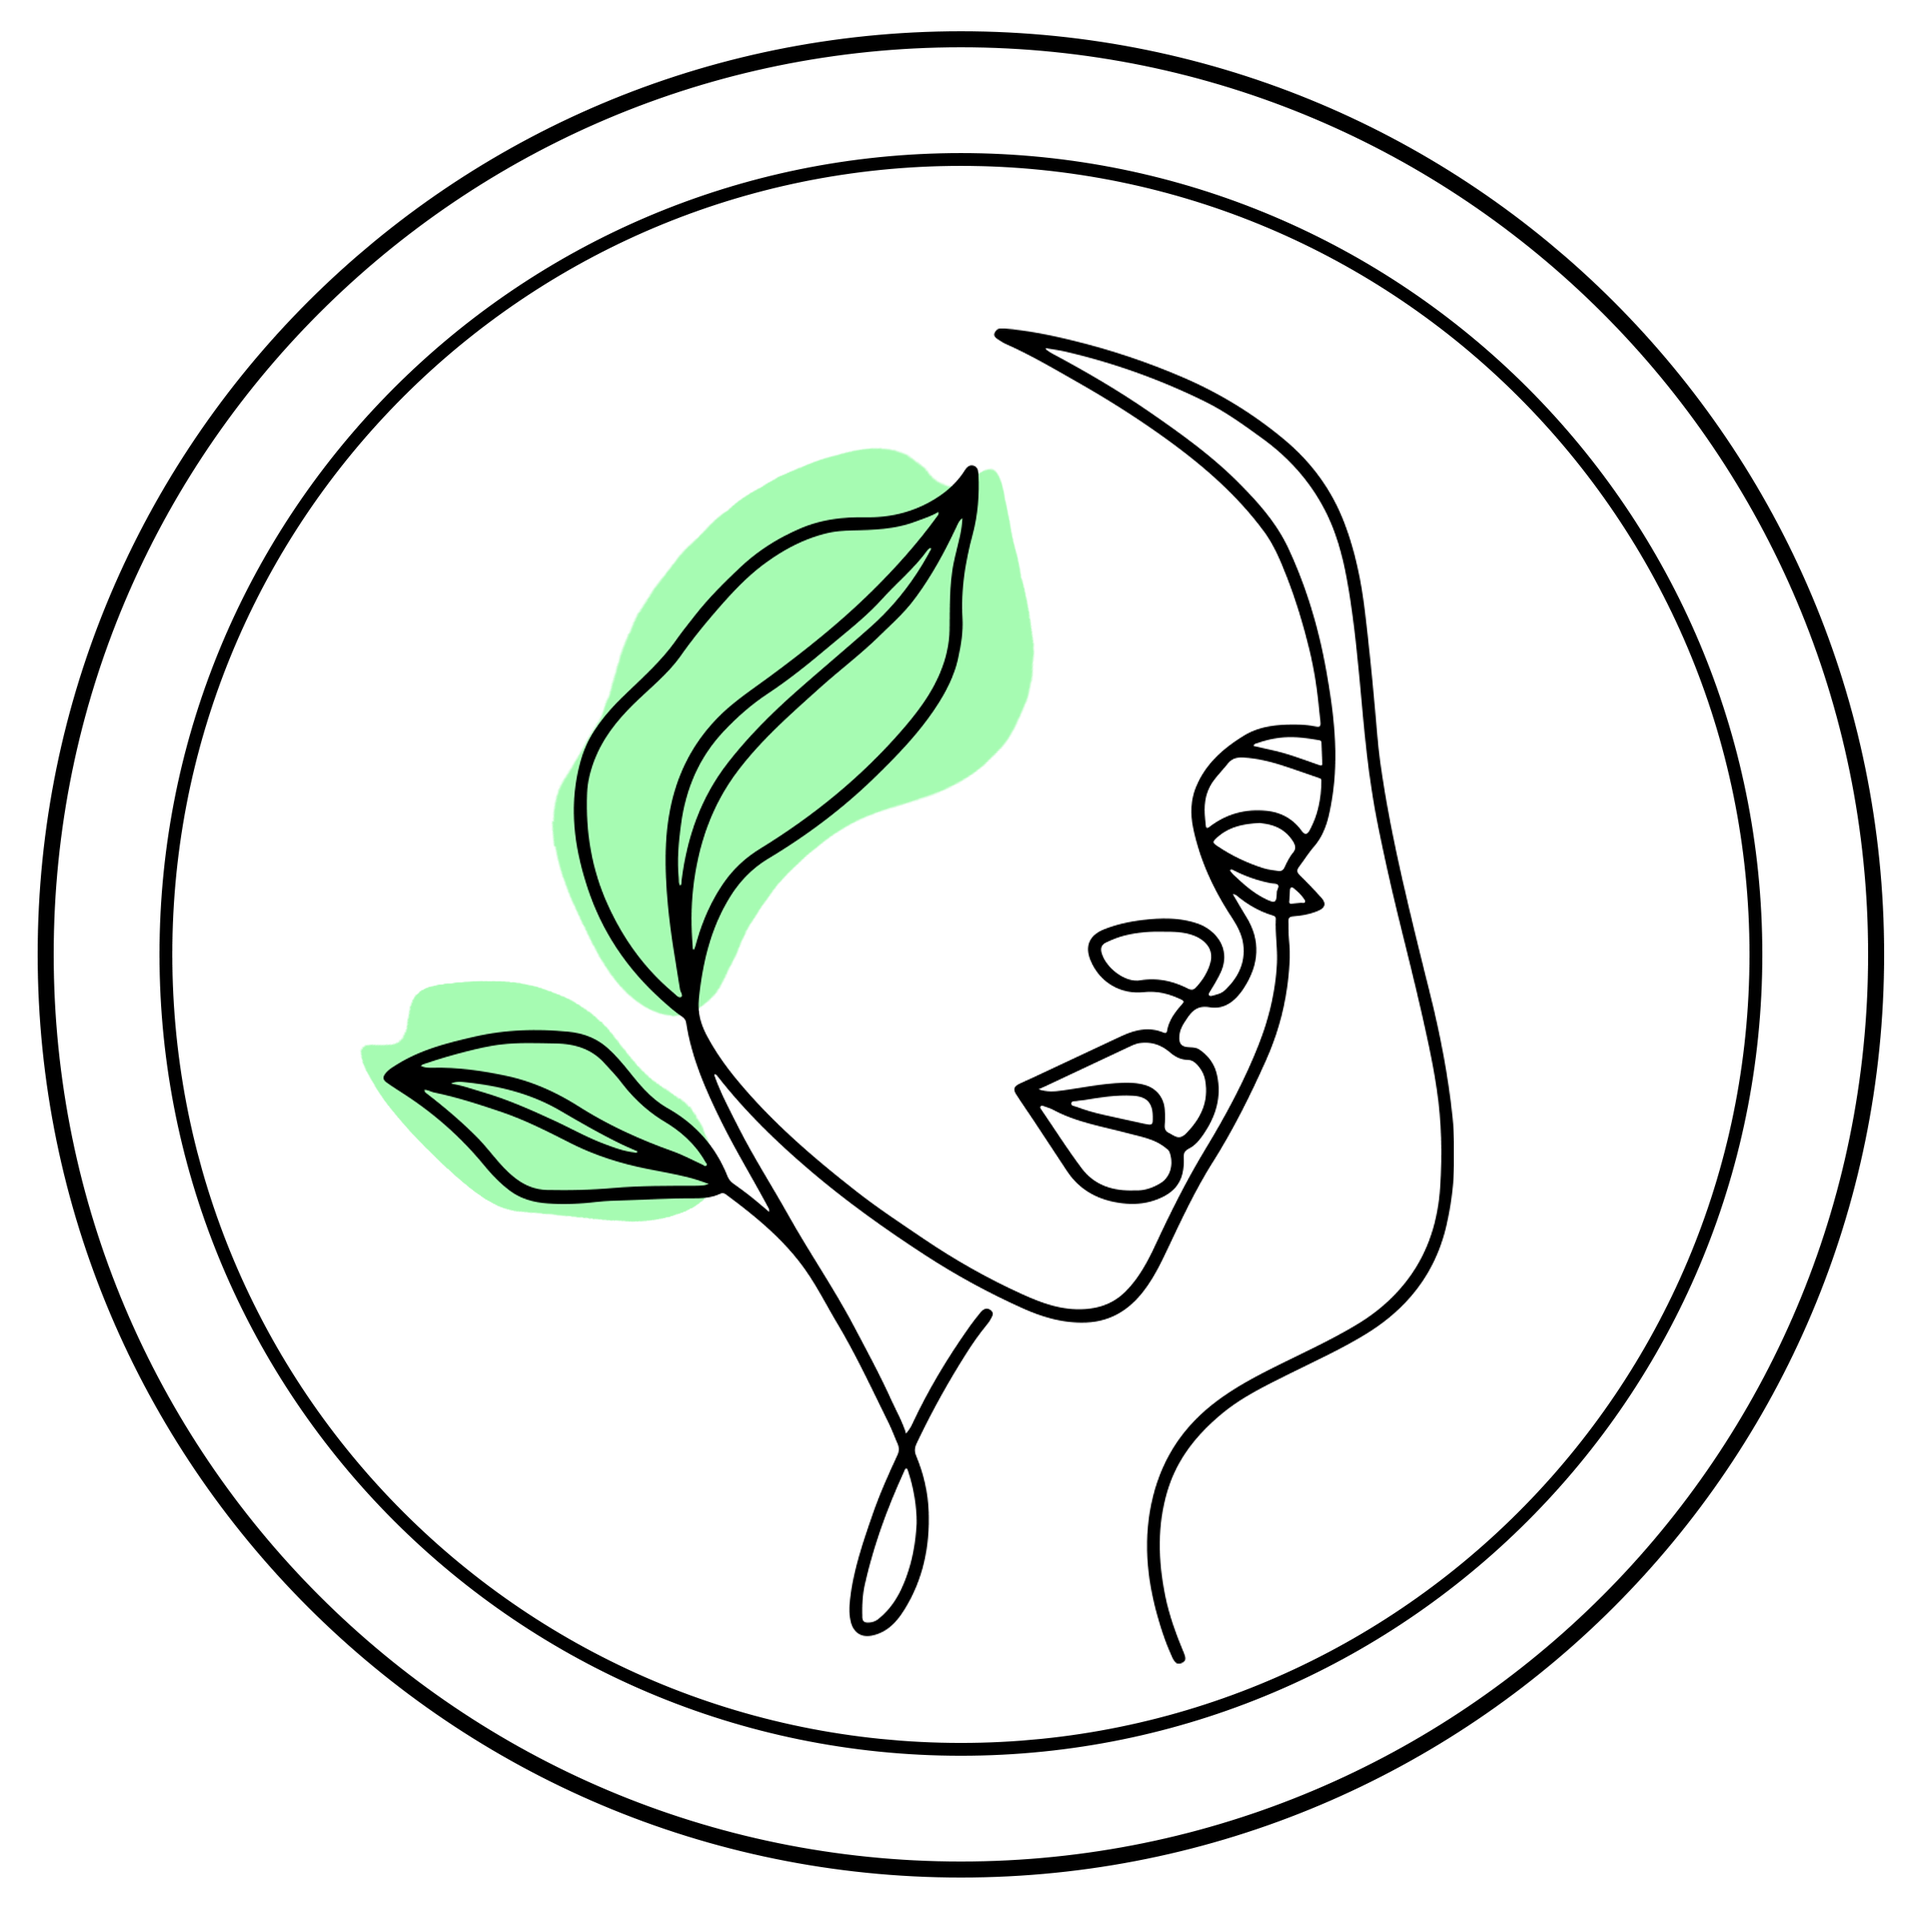
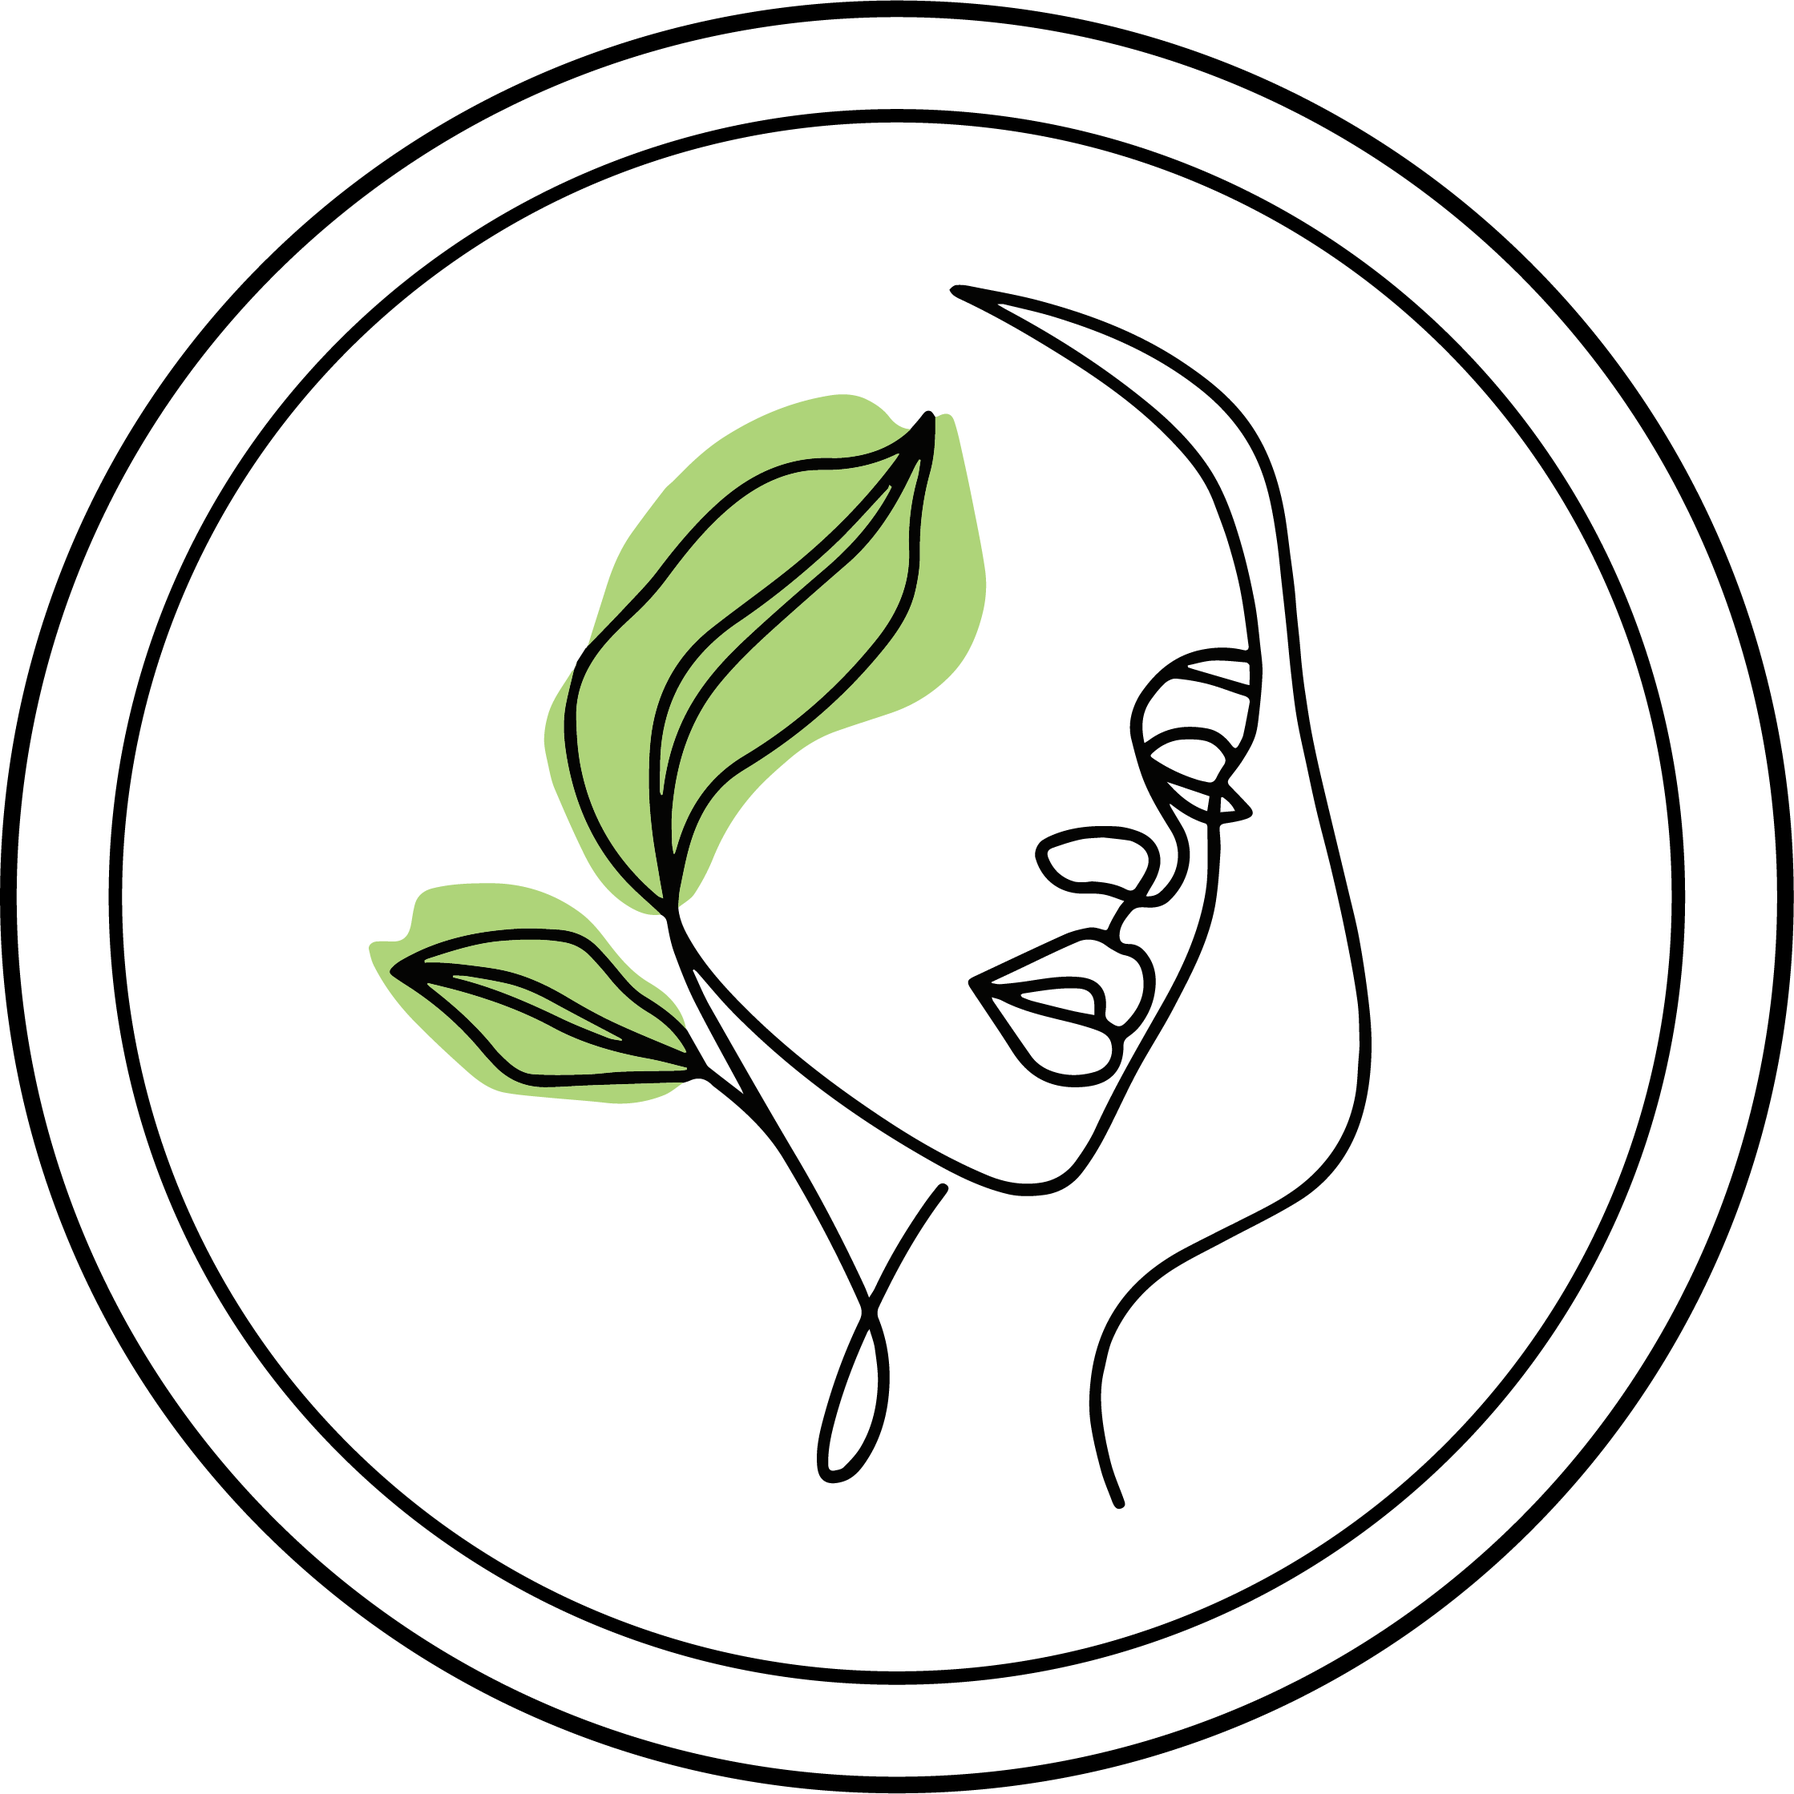
Completed layout changes for landing page

Changed region(s): [[0.0, 0.0, 1.0, 1.0], [0.185, 0.1541, 0.7708, 0.8629]]

diff --git a/src/Components/HeroSection/HeroSection.tsx b/src/Components/HeroSection/HeroSection.tsx
@@ -1,0 +1,153 @@
+import { Box, Button, Typography } from "@mui/material";
+import styled from "@emotion/styled";
+import COLORS from "../../constants";
+import { useSpring, useTrail, animated } from '@react-spring/web';
+
+
+const Wrapper = styled(Box)`
+    position: relative;
+    overflow: hidden;
+`
+
+const HeroBanner = styled(Box)`
+    position: relative;
+    width: 100%;
+    height: 100vh;
+    top: 6.7rem;
+    padding: 1rem;
+    overflow: hidden;
+    display: flex;
+    flex-direction: column;
+    justify-content: center;
+    align-items: center;
+`
+
+const HeroBannerBackground = styled("img")`
+    position: absolute;
+    width: 100%;
+    height: 100%;
+    object-fit: cover;
+    z-index: 1;
+`
+
+const ContentWrapper = styled(Box)`
+    position: relative;
+    z-index: 2;
+    display: flex;
+    flex-direction: row;
+    justify-content: center; 
+    width: 100%;
+`;
+
+const HeroBannerImg = styled("img")`
+    width: 30%; 
+    height: auto;
+    object-fit: cover;
+    padding-right: 10rem;
+    padding-bottom: 7rem;
+`
+
+const TextWrapper = styled(Box)`
+    display: flex;
+    flex-direction: column;
+    align-items: flex-start;
+    padding-top: 9rem;
+`
+
+const AnimatedTypography = animated(Typography);
+
+const HeroBannerText = styled(AnimatedTypography)`
+    font-family: "against";
+    color: ${COLORS.font};
+`
+
+const DiscoverRadianceText = styled(HeroBannerText)`
+    margin-bottom: 0;
+    text-align: left;
+    transform: translateY(-50%);
+`;
+
+const TextContainer = styled(Box)`
+    display: flex;
+    flex-direction: row;
+    gap: 1rem;
+    justify-content: center;
+`;
+
+const ParagraphText = styled(Typography)`
+    font-family: "Josefin Sans";
+    font-size: 14pt;
+    padding-top: 2rem;
+    padding-bottom: 2rem;
+`
+
+const LandingBtn = styled(Button)`
+    background-color: ${COLORS.lightGreen};
+    text-align: center;
+    border-radius: 1rem;
+    text-transform: none;
+    font-family: "Josefin Sans";
+    font-size: 12pt;
+    color: ${COLORS.surface};
+
+    &:hover {
+    background-color: ${COLORS.darkGreen};
+    }
+`
+
+export const HeroSection = () => {
+    const discoverRadianceSpring = useSpring({ opacity: 1, from: { opacity: 0 }, delay: 700 });
+    const trail = useTrail(3, {
+        opacity: 1,
+        transform: 'translate3d(0,0,0)',
+        from: { opacity: 0, transform: 'translate3d(0,40px,0)' },
+        delay: 1500,
+    });
+
+    const texts = [
+        "Inside",
+        "and",
+        "Out",
+    ];
+
+    return (
+        <Wrapper>
+            <HeroBanner>
+                <HeroBannerBackground src="./public/assets/images/WebBanner.png" alt="Green abstract flower banner" />
+                <ContentWrapper>
+                    <HeroBannerImg src="./public/assets/images/MGB_Hero.png"/>
+
+                    <TextWrapper>
+                        <DiscoverRadianceText
+                            style={discoverRadianceSpring}
+                            variant={"h2"}
+                            textTransform={"uppercase"}
+                            letterSpacing={"0.15rem"}
+                        >
+                            Discover Radiance
+                        </DiscoverRadianceText>
+                        <TextContainer>
+                            {texts.map((text, index) => (
+                                <HeroBannerText
+                                    key={index}
+                                    style={trail[index]}
+                                    variant={"h2"}
+                                    textTransform={"uppercase"}
+                                    letterSpacing={"0.15rem"}
+                                >
+                                    {text}
+                                </HeroBannerText>
+                            ))}
+                        </TextContainer>
+                        <ParagraphText>
+                            Welcome to Making Great Beauty, where wellness meets beauty in perfect harmony.
+                            Unwind, <br/> rejuvenate, and embrace your best self with our exclusive range of holistic treatments and spa experiences.
+                        </ParagraphText>
+                        <LandingBtn>Step into Serenity</LandingBtn>
+                    </TextWrapper>
+
+                </ContentWrapper>
+            </HeroBanner>
+        </Wrapper>
+    )
+}

diff --git a/src/constants.tsx b/src/constants.tsx
@@ -1,8 +1,7 @@
 const COLORS = {
-  primary: "#7fc349",
-  midGreen: "#aed479",
-  lightGreen: "#a6fbb2",
-  secondary: "#006B56",
+  primary: "#aed479",
+  lightGreen: "#7fc349",
+  darkGreen: "#5c9336",
   surface: "#F7FBEC",
   surfaceCont: "#ECF0E1",
   outline: "#727A68",

diff --git a/src/Components/HomePage/HomePage.tsx b/src/Components/HomePage/HomePage.tsx
@@ -1,7 +1,11 @@
 import { NavBar } from "../NavBar/NavBar"
+import { HeroSection } from "../HeroSection/HeroSection"
 
 export const HomePage = () => {
     return (
+        <>
         <NavBar></NavBar>
+        <HeroSection>123</HeroSection>
+        </>
     )
 }

diff --git a/src/App.css b/src/App.css
@@ -1,4 +1,7 @@
 body {
   background-color: #f7fbec;
   font-family: "Montserrat", sans-serif;
+  height: 100%;
+  margin: 0;
+  overflow: hidden;
 }
